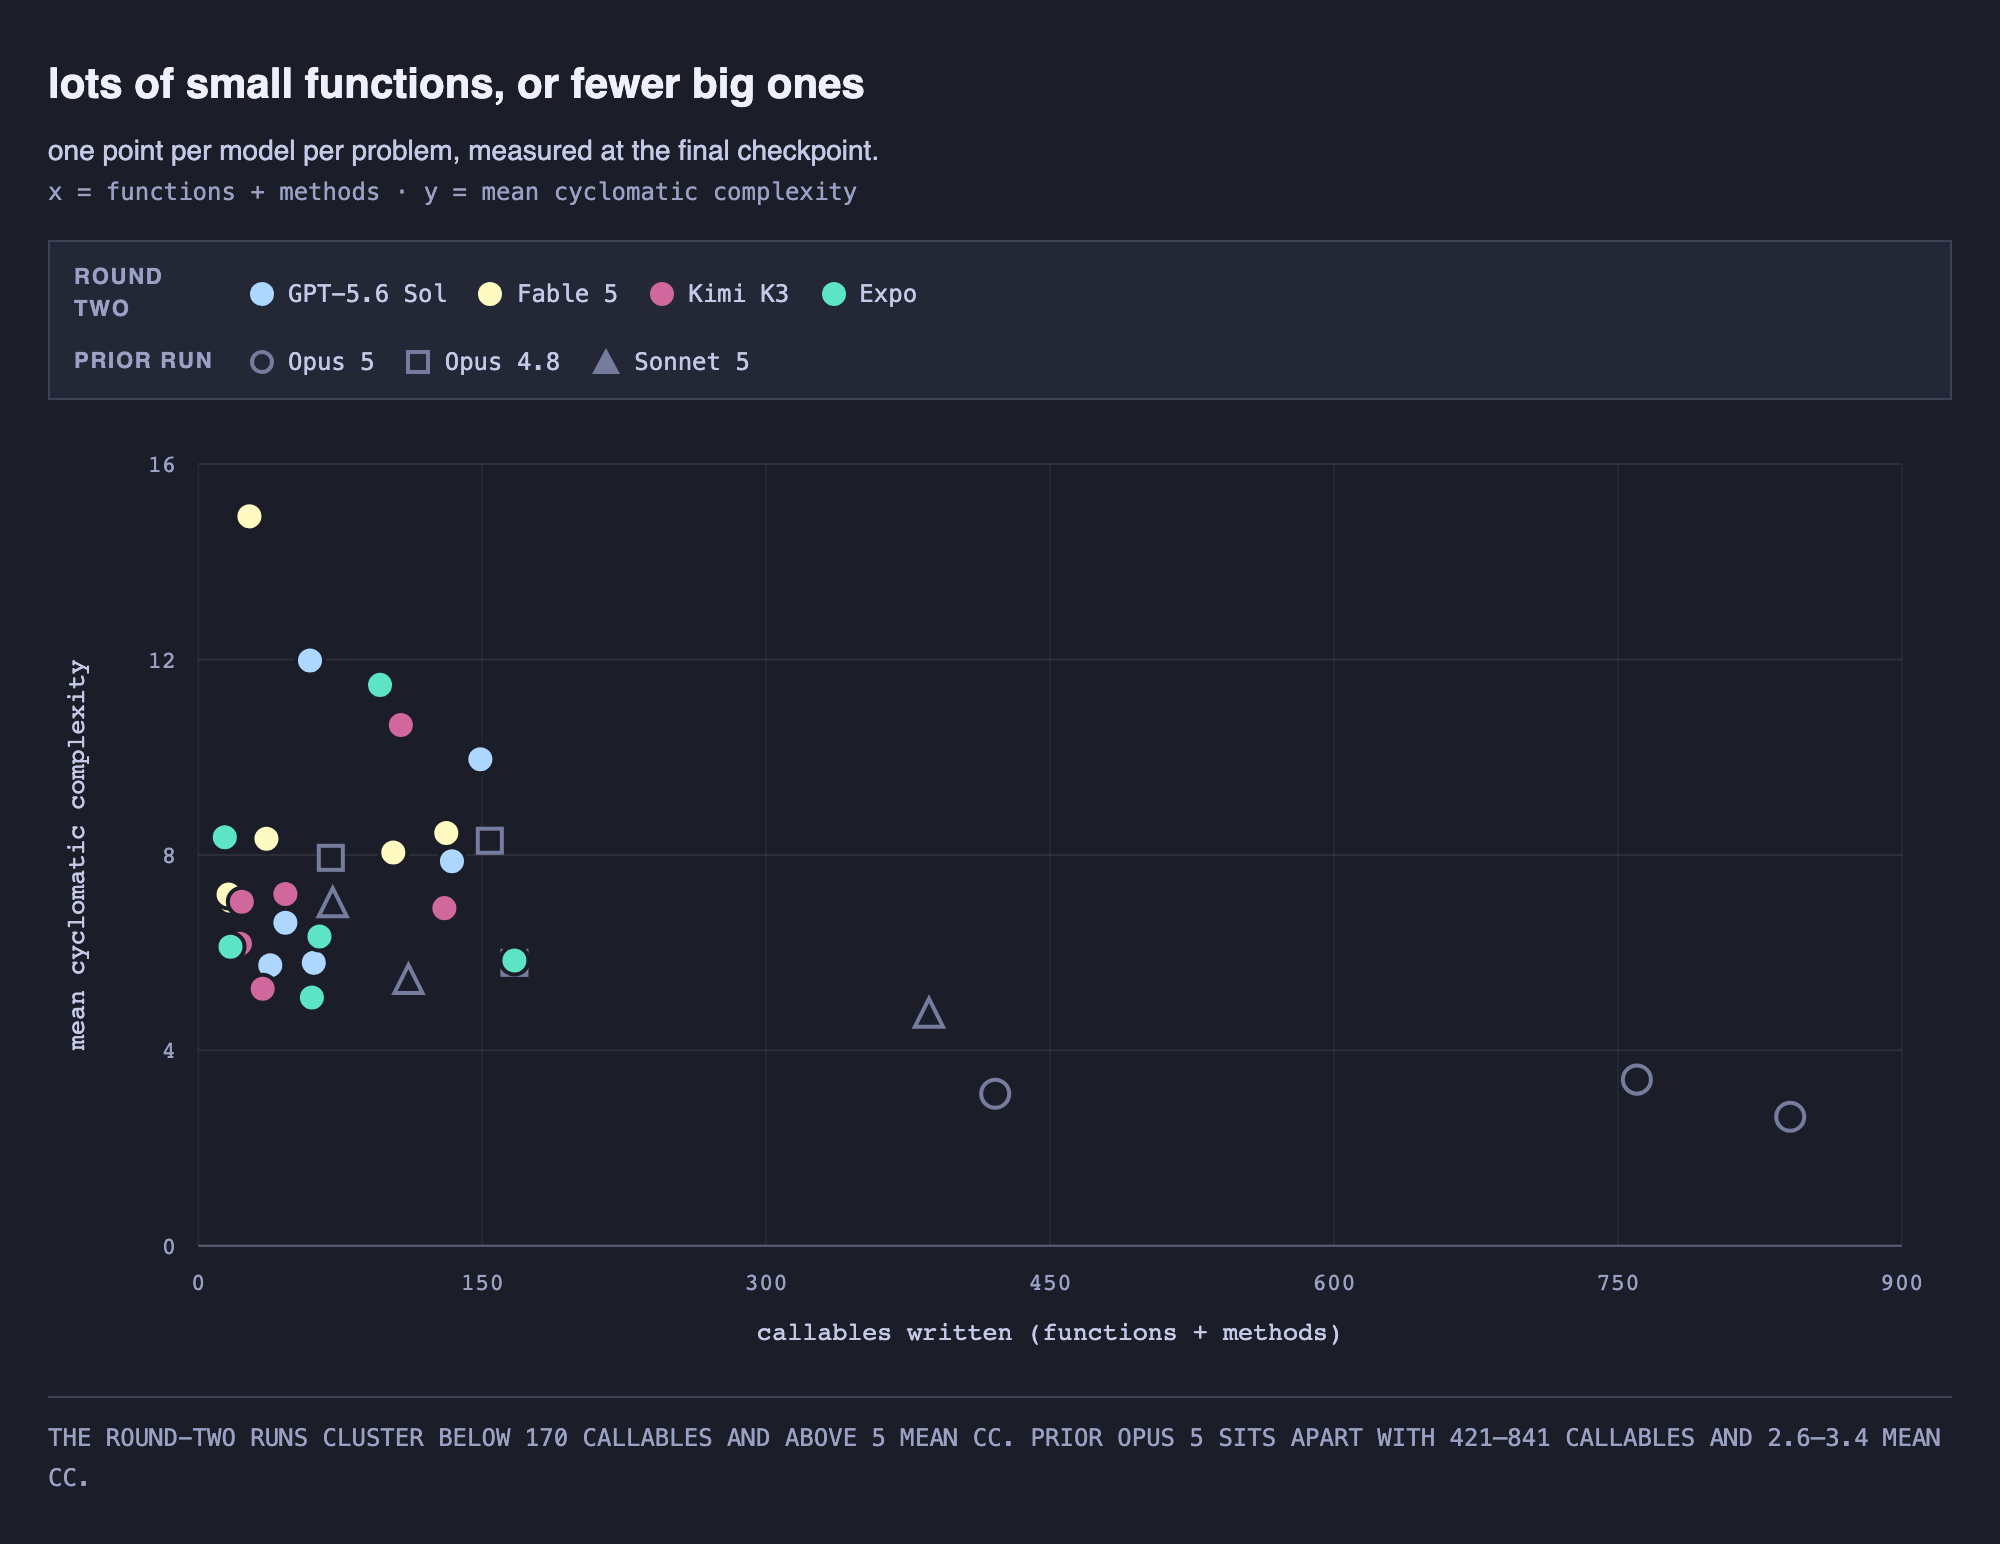
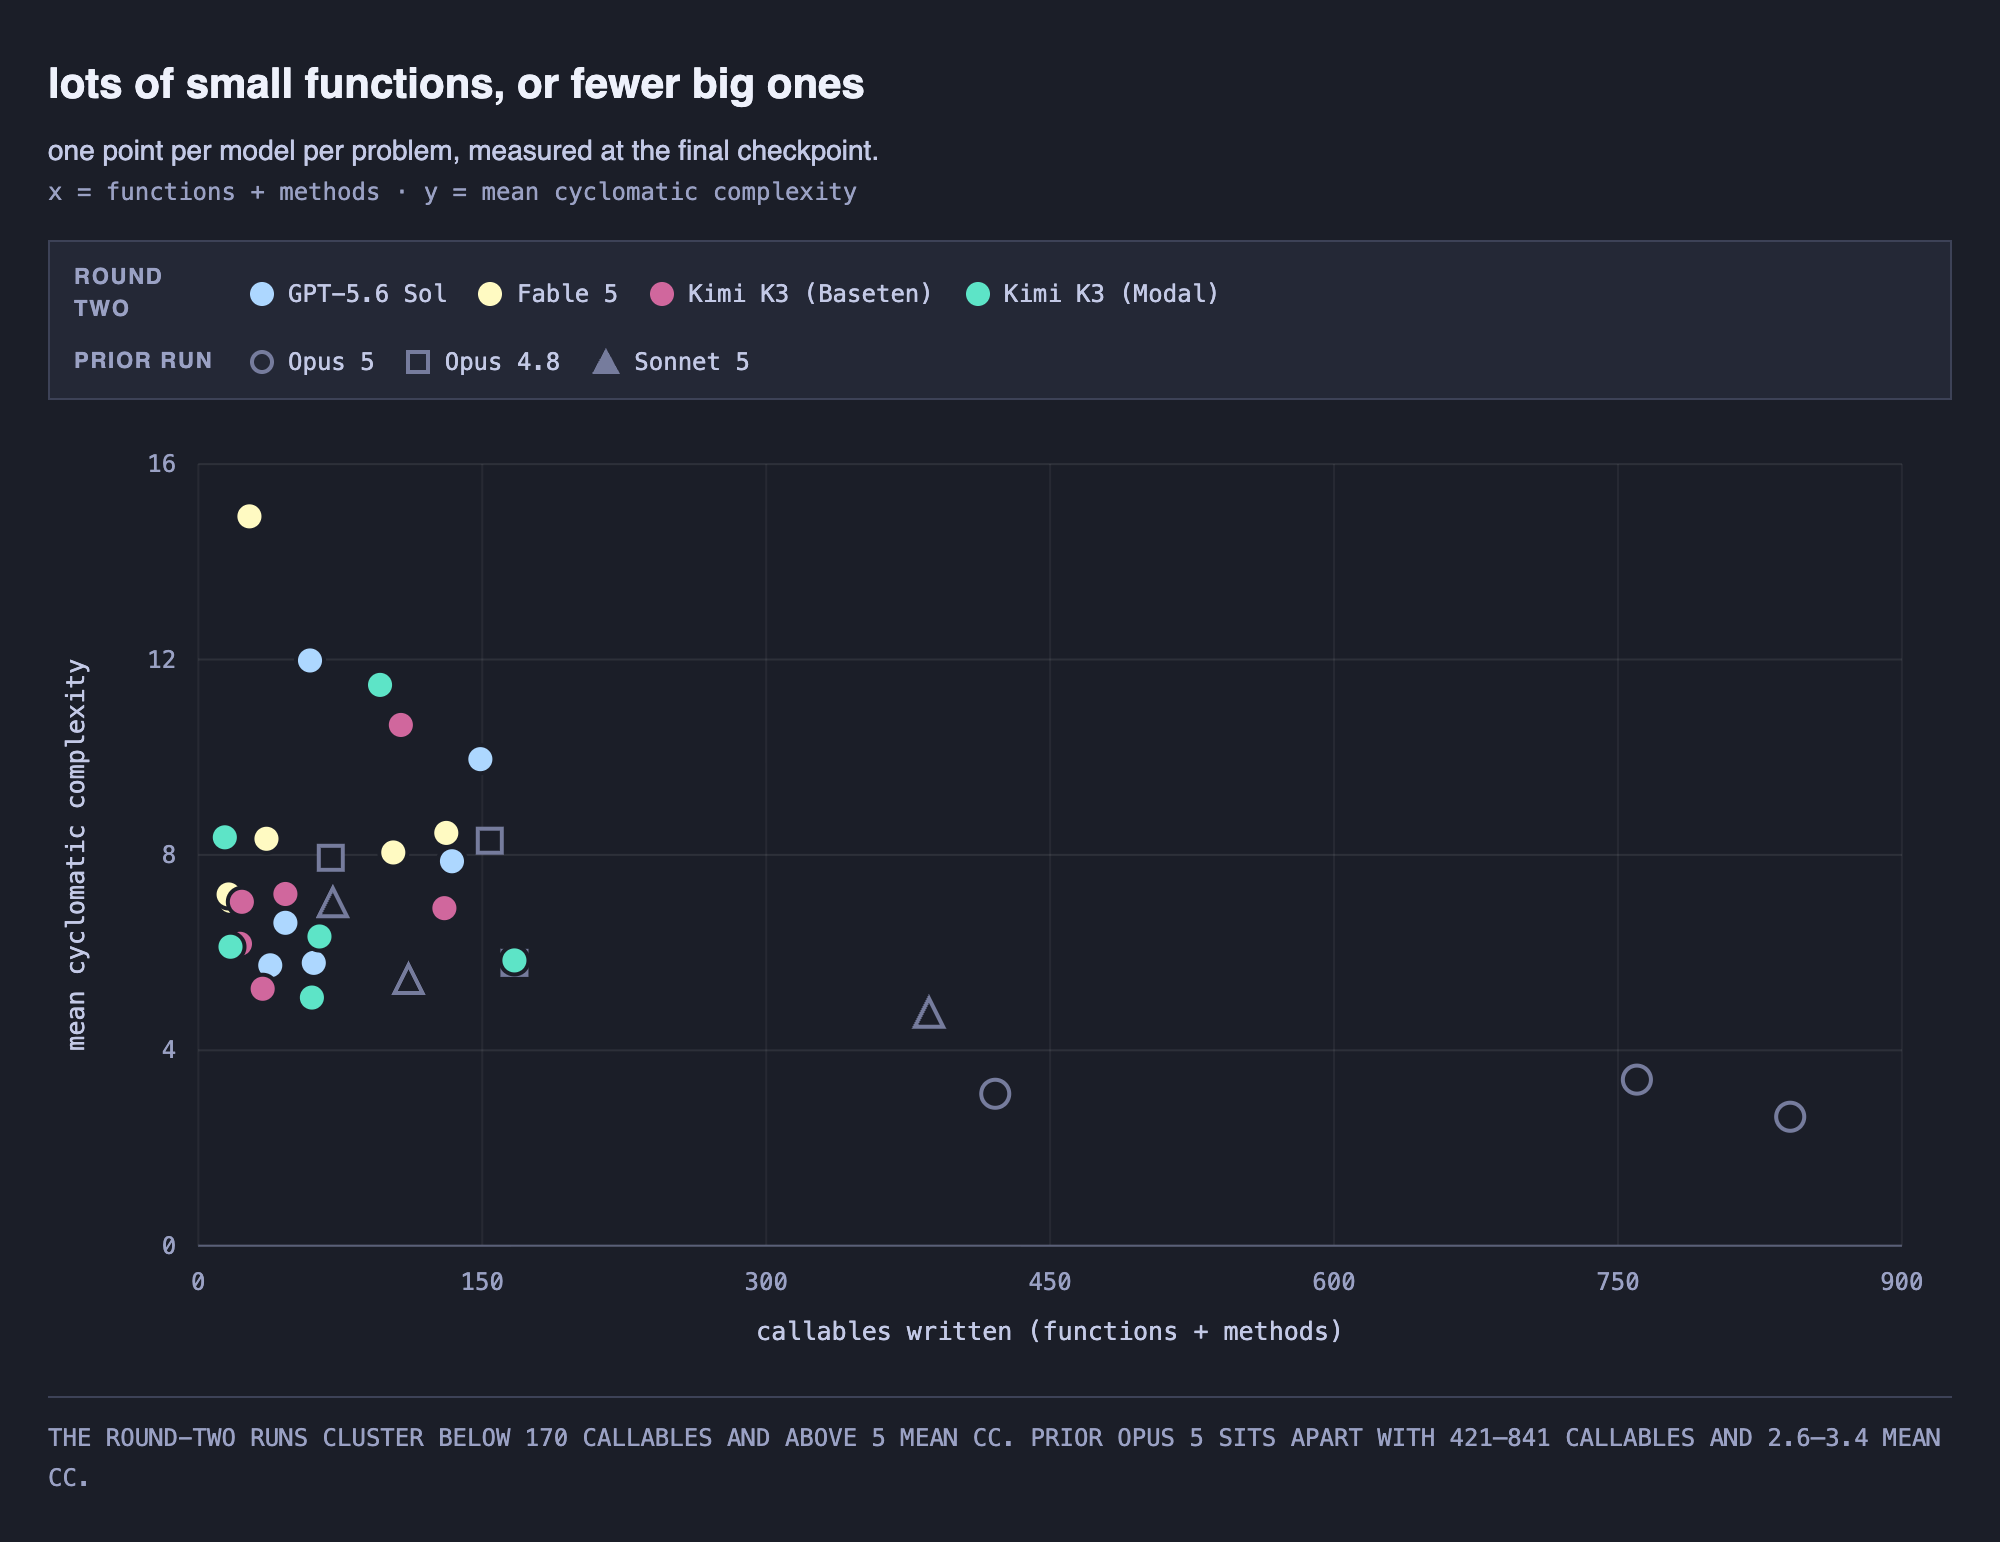
updates

diff --git a/benchmarking-sol-fable-kimi-on-slop-code-bench.md b/benchmarking-sol-fable-kimi-on-slop-code-bench.md
@@ -1,5 +1,7 @@
 # Benchmarking Fable, Sol, and Kimi K3 on SlopCodeBench
 
+**Thanks to Modal and Baseten for sponsoring the Kimi inference on this benchmark.**
+
 ![title](./images/scb-2-title.png)
 
 Last week when Opus 5 came out, I [ran some benchmarks](https://github.com/humanlayer/advanced-context-engineering-for-coding-agents/blob/main/benchmarking-opus-5-on-slop-code-bench.md) against my favorite new coding agent eval - [SlopCodeBench](https://arxiv.org/abs/2603.24755).
@@ -10,12 +12,15 @@ But everyone was asking: where do Fable, Sol, and Kimi K3 land?
 
 So on Thursday I ran it again, for
 
-1) Fable, Sol, Kimi K3, and an undisclosed stealth model ("Expo")
+1) Fable, Sol, Kimi K3 on Baseten (red), and Kimi K3 on Modal (green)
 2) a larger subset of problems: six challenges and 30 checkpoints per model
+
+
+> **The two Kimi K3 runs scored close to each other and traded wins across a number of dimensions. I only did one run on each provider, so these results should not be read as statistically significant or as an endorsement of either provider. They're both awesome!**
 
 ### The Results
 
-Fable and Sol tied on this set at **33.3%** (10/30 strict checkpoint passes), with Expo and Kimi K3 close behind at **26.7%** and **23.3%**, respectively.
+Fable and Sol tied on this set at **33.3%** (10/30 strict checkpoint passes), with Kimi K3 (Modal) and Kimi K3 (Baseten) close behind at **26.7%** and **23.3%**, respectively.
 
 ![strict checkpoint pass rates for the two independent subset runs and the SlopCodeBench v2 paper](./images/scb-2-pass-rates.png)
 
@@ -52,8 +57,8 @@ and then I ran them across all four models, in parallel, with a fresh context wi
 
 - Fable - Claude Code 2.1.219
 - Sol - Codex CLI 0.145.0
-- Kimi K3 - OpenCode 1.18.0
-- Expo (stealth) - OpenCode 1.18.0
+- Kimi K3 (Baseten) - OpenCode 1.18.0
+- Kimi K3 (Modal) - OpenCode 1.18.0
 
 the metric we decided on for the first benchmark is the **strict pass**: everything new is green including every regression test that was inherited from previous checkpoints. So I carried that forward here.
 
@@ -79,7 +84,7 @@ If our definition of success is "reached the final checkpoint with no defects" t
 
 ![defects left open at the end of each problem](images/scb-2-defects.png)
 
-As far as cost vs. final defect rate goes, we see a totally different curve from the Opus 5 eval. The chart uses the share of final tests left failing so the three- and six-problem subsets can share one scale; Expo is not plotted because its saved cost is unavailable.
+As far as cost vs. final defect rate goes, we see a totally different curve from the Opus 5 eval. The chart uses the share of final tests left failing so the three- and six-problem subsets can share one scale; Kimi K3 (Modal) is not plotted because its saved cost is unavailable.
 
 ![cost vs final defect rate, where defect rate is the share of final hidden tests left failing](images/scb-2-cost-defect-rate.png)
 
@@ -101,7 +106,7 @@ I reproduced the same spread chart from the last post, for the new run. Looks li
 
 ![percent change from checkpoint 1 to 8 for each rate metric, one dot per model, sorted by spread — cc_max and cloned_pct separate the models sharply, the rest cluster](images/scb-2-metric-spread.png)
 
-Just as with the Opus 5 bench set, these models are close on growth in most metrics, with Fable growing more in some slop metrics, and Sol/Kimi growing more in others. What's interesting is Sol and Expo did the best at reducing *normalized* cognitive complexity. Somehow not as well as sonnet 5 though...?
+Just as with the Opus 5 bench set, these models are close on growth in most metrics, with Fable growing more in some slop metrics, and Sol/Kimi growing more in others. What's interesting is Sol and Kimi K3 (Modal) did the best at reducing *normalized* cognitive complexity. Somehow not as well as sonnet 5 though...?
 
 Again, I like that these measures are repeatable and don't use a model for judgement. But the link between any one of them and "is this codebase easy to change and evolve" is not really established.
 
@@ -126,8 +131,8 @@ Results from this run:
 
 - Fable 5 — **86%**
 - GPT-5.6 Sol — **95%**
-- Kimi K3 — **82%**
-- Expo — **79%**
+- Kimi K3 (Baseten) — **82%**
+- Kimi K3 (Modal) — **79%**
 
 Previous results, for context:
 
@@ -196,7 +201,7 @@ good luck.
 - [Gabe Orlanski on X](https://x.com/GOrlanski)
 - [Claude Code](https://github.com/anthropics/claude-code) — harness used for Fable
 - [Codex CLI](https://github.com/openai/codex) — harness used for Sol
-- [OpenCode](https://github.com/anomalyco/opencode) — harness used for Kimi K3 and Expo
+- [OpenCode](https://github.com/anomalyco/opencode) — harness used for both Kimi K3 runs
 - [Where Does the Time Go?](./side-quests/where-does-the-time-go.md)
 - [HumanLayer](https://humanlayer.dev/)
 
